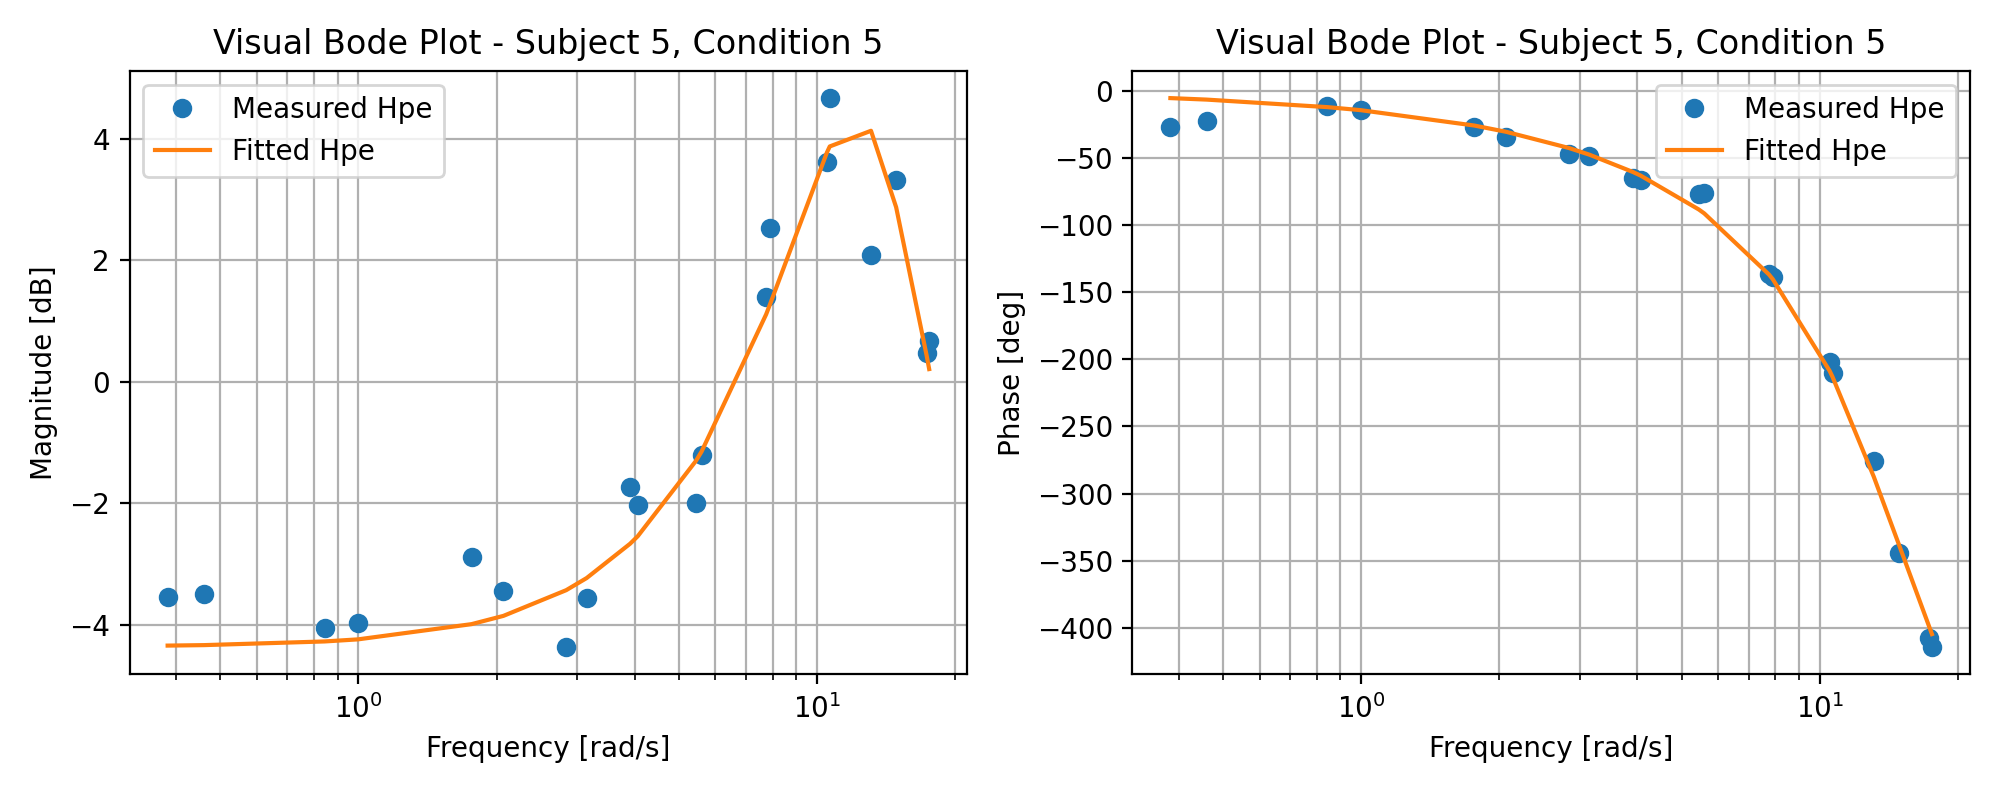
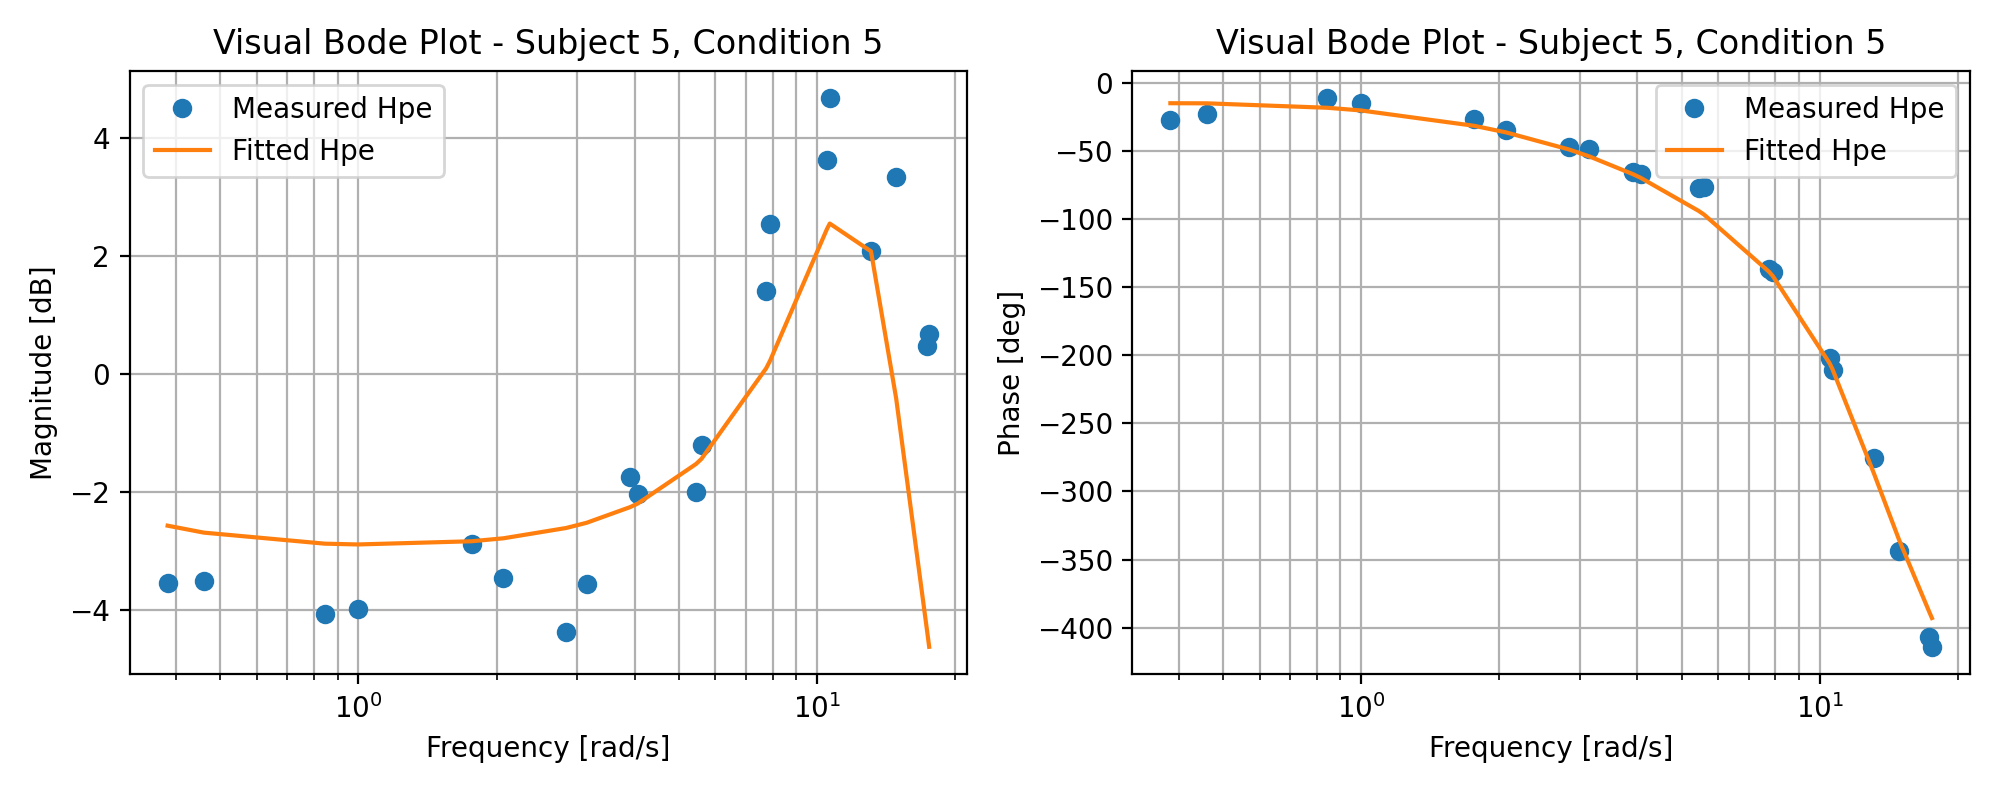
Saving boxplots, minor cleanups

diff --git a/boxplot_main.py b/boxplot_main.py
@@ -1,10 +1,9 @@
-#boxplot_main.py
 import matplotlib.pyplot as plt
 import numpy as np
 
 global_parameters = np.load("global_parameters.npy", allow_pickle=True)
 
-#Extract parameters for each condition
+# Extract parameters for each condition
 parameters_c1 = global_parameters[0]
 parameters_c2 = global_parameters[1]
 parameters_c3 = global_parameters[2]
@@ -12,12 +11,8 @@ parameters_c4 = global_parameters[3]
 parameters_c5 = global_parameters[4]
 parameters_c6 = global_parameters[5]
 
-
-
-#Subjects and conditions
-subjects = range(1,7)
-conditions = range(1,7)
-condition_names = [
+# Condition names (full set)
+condition_names_all = [
     "C1 (P, no motion)",
     "C4 (P, motion)",
     "C2 (V, no motion)",
@@ -26,9 +21,8 @@ condition_names = [
     "C6 (A, motion)",
 ]
 
-
-#Combine parameters into a list of lists for boxplot
-all_conditions = [
+# Combine parameters into a list of lists for boxplot (full set)
+all_conditions_all = [
     parameters_c1,  # C1
     parameters_c4,  # C4
     parameters_c2,  # C2
@@ -37,10 +31,20 @@ all_conditions = [
     parameters_c6,  # C6
 ]
 
+# Subset for Km and tau_m only (C4, C5, C6)
+condition_names_motion_only = [
+    "C4 (P, motion)",
+    "C5 (V, motion)",
+    "C6 (A, motion)",
+]
+all_conditions_motion_only = [
+    parameters_c4,  # C4
+    parameters_c5,  # C5
+    parameters_c6,  # C6
+]
 
-
-#List of all parameters to plot
-all_params = [
+# Original column order (kept here so indices match the data)
+all_params_original = [
     "Kp",
     "TL",
     "TI",
@@ -54,15 +58,42 @@ all_params = [
     "tau_m",
 ]
 
+# Parameters we actually want to plot (exclude Tsc1/2/3)
+params_to_plot = [
+    "Kp",
+    "TL",
+    "TI",
+    "tau",
+    "omega_nm",
+    "zeta_nm",
+    "Km",
+    "tau_m",
+]
 
-#Create boxplots for each parameter across conditions
-for idx, param in enumerate(all_params):
+# Map parameter name -> original column index
+param_to_col = {p: i for i, p in enumerate(all_params_original)}
+
+# Create boxplots for each parameter across conditions
+for param in params_to_plot:
+    col_idx = param_to_col[param]
+
+    # Only show C4/C5/C6 for Km and tau_m
+    if param in ("Km", "tau_m"):
+        conditions = all_conditions_motion_only
+        labels = condition_names_motion_only
+    else:
+        conditions = all_conditions_all
+        labels = condition_names_all
+
     plt.figure(figsize=(10, 6))
-    data_to_plot = [condition[:, idx] for condition in all_conditions]
-    plt.boxplot(data_to_plot, tick_labels=condition_names, showfliers=False)
+    data_to_plot = [condition[:, col_idx] for condition in conditions]
+    plt.boxplot(data_to_plot, tick_labels=labels, showfliers=False)
     plt.title(f"Boxplot of {param} across conditions")
     plt.xlabel("Condition")
     plt.ylabel(param)
     plt.xticks(rotation=45)
     plt.tight_layout()
-    plt.show()
+    plt.savefig(f"BOXPLOTS/boxplot_{param}.png", dpi=200, bbox_inches="tight")
+    #plt.show()
+
+print('Boxplot generation successful')

diff --git a/nonparametric_analysis_main.py b/nonparametric_analysis_main.py
@@ -1,0 +1,23 @@
+import numpy as np
+import Datasetcode as ds
+
+
+#DEFINE VEHICLE DYNAMICS: POSITION, VELOCITY, ACCELERATION
+
+def controlled_element_frf(w, vehicle_type="position", Kc=1.0):
+    s = 1j * w
+
+    if vehicle_type.lower() == "position":
+        Hc = Kc * np.ones_like(s, dtype=complex)
+    elif vehicle_type.lower() == "velocity":
+        Hc = Kc / s
+    elif vehicle_type.lower() == "acceleration":
+        Hc = Kc / (s ** 2)
+    else:
+        raise ValueError("vehicle_type must be 'position', 'velocity', or 'acceleration'")
+
+    return Hc
+
+
+#DEFINE OPEN LOOP TRANSFER FUNCTIONS FOR BOTH FIXED BASED AND MOTION BASED 
+

diff --git a/Optimizedpilotfitting_main.py b/Optimizedpilotfitting_main.py
@@ -88,8 +88,8 @@ def cost_function(params, w, vis_data, vest_data, condition, weight_vis=1.0, wei
 
 VIS_BOUNDS = [
     (0.01, 10.0),   # Kp
-    (0.0,  10.0),    # TL
-    (0.0, 10.0),    # TI
+    (0.0,  10.5),    # TL
+    (0.0, 10.5),    # TI
     (0.01, 0.5),    # tau  [s]
     (5.0,  35.0),   # omega_nm  [rad/s]
     (0.1,  1.0),    # zeta_nm
